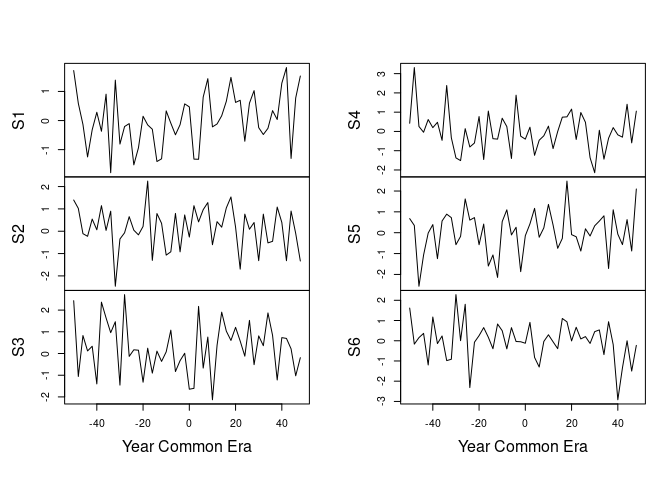
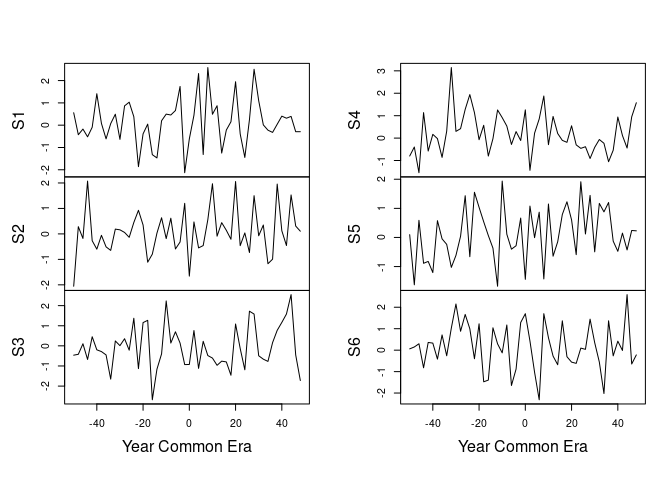
Fix projection methods

diff --git a/README.md b/README.md
@@ -29,11 +29,14 @@ given year-based time scale (in the same way that geographic data are
 linked to a coordinate system).
 
 **chronos** provides a system of classes and methods to represent and
-work with such time-series. This package includes common time scales
-(e.g., before present, common era) and supports user-defined scales.
-Time-series can be reprojected to a different time scale (e.g. from BP
-to CE years). **chronos** only supports data expressed in decimal years
-(1950 means 1950.0, i.e. the beginning of the year 1950).
+work with such time-series. This package includes common Gregorian era
+(e.g., before present, common era) and supports user-defined time
+scales. Time-series can be reprojected to a different time scale
+(e.g. from BP to CE years).
+
+**chronos** only supports dates expressed in decimal years (1950 means
+1950.0, i.e. the beginning of the year 1950) and uses astronomical
+notation (**there is a year 0**).
 
 ## Installation
 
@@ -63,16 +66,19 @@ library(chronos)
 ## Sampled every two years starting from 2000 BP
 X <- series(
   object = matrix(rnorm(300), nrow = 50, ncol = 6),
-  time = seq(from = 2000, by = 2, length.out = 50),
+  time = seq(from = 2000, by = -2, length.out = 50),
   calendar = era("BP")
 )
 
 ## Reproject to the CE time scale
 (Y <- project(X, era("CE")))
+#> 6 time series observed between -50 and 48 CE.
 
 ## Plot
 plot(Y)
 ```
+
+![](man/figures/README-time-series-1.png)<!-- -->
 
 ## Contributing
 
